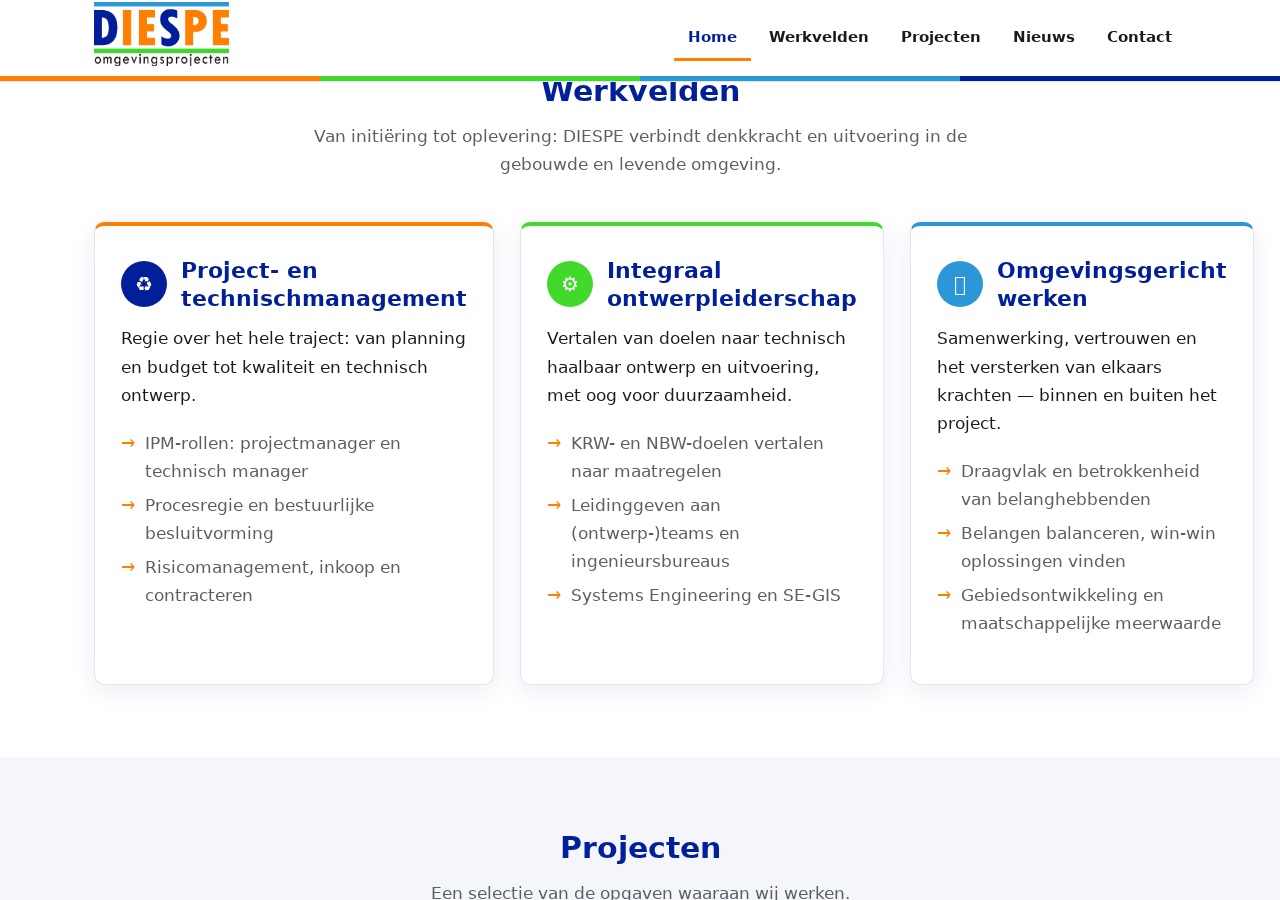
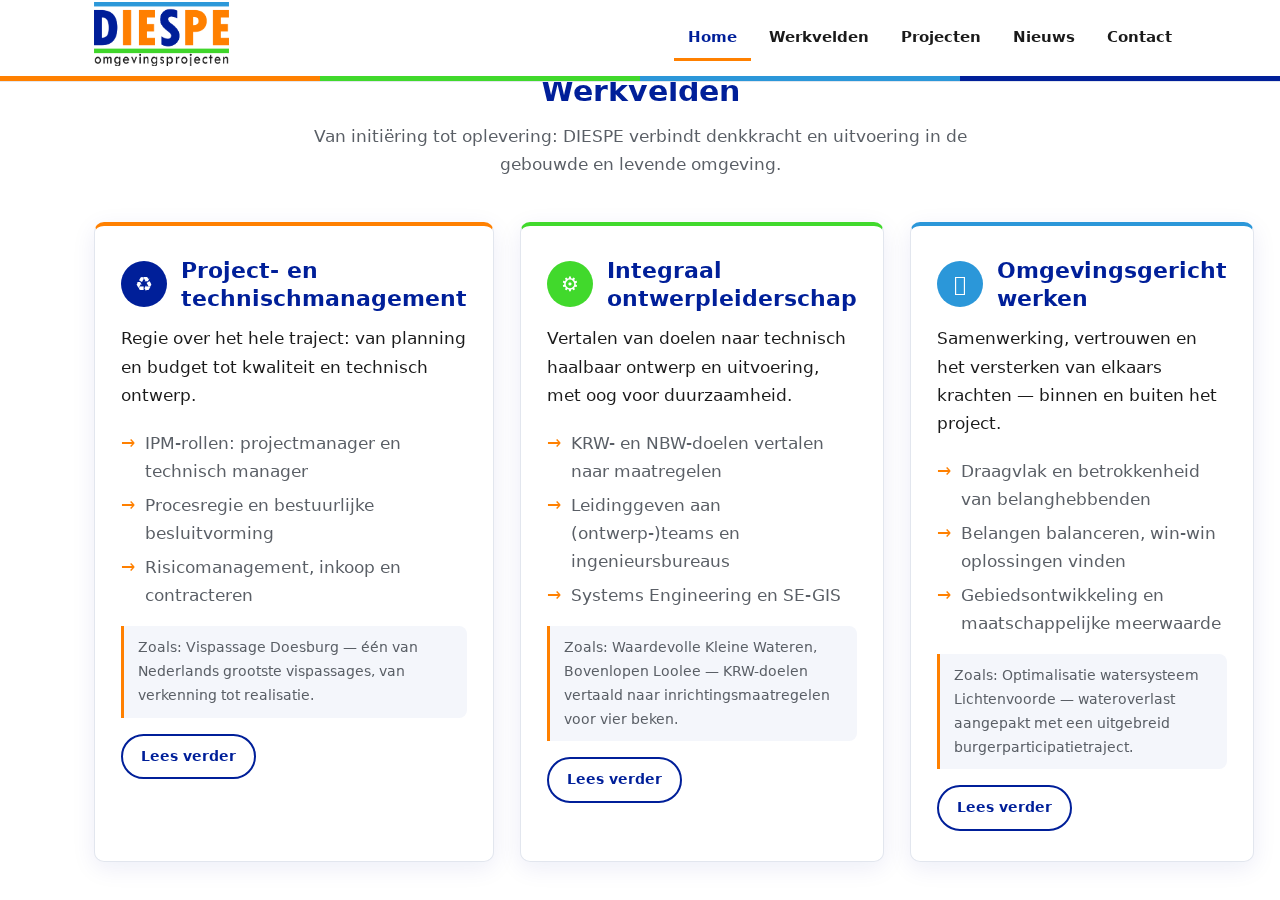
Werkveld-kaarten: praktijkvoorbeeld per kaart en Lees verder-knop

diff --git a/preview/index.html b/preview/index.html
@@ -76,6 +76,8 @@
           <li>Procesregie en bestuurlijke besluitvorming</li>
           <li>Risicomanagement, inkoop en contracteren</li>
         </ul>
+        <p class="card-case">Zoals: Vispassage Doesburg &mdash; &eacute;&eacute;n van Nederlands grootste vispassages, van verkenning tot realisatie.</p>
+        <a class="btn btn--outline card-more" href="#">Lees verder</a>
       </div>
       <div class="card">
         <div class="card-header"><span class="card-icon" aria-hidden="true">&#9881;</span><h3>Integraal ontwerpleiderschap</h3></div>
@@ -85,6 +87,8 @@
           <li>Leidinggeven aan (ontwerp-)teams en ingenieursbureaus</li>
           <li>Systems Engineering en SE-GIS</li>
         </ul>
+        <p class="card-case">Zoals: Waardevolle Kleine Wateren, Bovenlopen Loolee &mdash; KRW-doelen vertaald naar inrichtingsmaatregelen voor vier beken.</p>
+        <a class="btn btn--outline card-more" href="#">Lees verder</a>
       </div>
       <div class="card">
         <div class="card-header"><span class="card-icon" aria-hidden="true">&#127795;</span><h3>Omgevingsgericht werken</h3></div>
@@ -94,6 +98,8 @@
           <li>Belangen balanceren, win-win oplossingen vinden</li>
           <li>Gebiedsontwikkeling en maatschappelijke meerwaarde</li>
         </ul>
+        <p class="card-case">Zoals: Optimalisatie watersysteem Lichtenvoorde &mdash; wateroverlast aangepakt met een uitgebreid burgerparticipatietraject.</p>
+        <a class="btn btn--outline card-more" href="#">Lees verder</a>
       </div>
     </div>
   </div>

diff --git a/preview/style.css b/preview/style.css
@@ -415,6 +415,18 @@ p { margin: 0 0 1.2em; }
 
 .card h3 { margin-bottom: 0.5em; }
 
+.card-case {
+  font-size: 0.9rem;
+  color: var(--diespe-muted);
+  background: var(--diespe-bg-alt);
+  border-left: 3px solid var(--diespe-orange);
+  padding: 10px 14px;
+  border-radius: 0 8px 8px 0;
+  margin-bottom: 16px;
+}
+
+.card .card-more { padding: 9px 18px; font-size: 0.9rem; }
+
 .card ul { list-style: none; padding: 0; margin: 0 0 1em; }
 .card li { padding-left: 24px; position: relative; margin-bottom: 6px; color: var(--diespe-muted); }
 .card li::before {

diff --git a/style.css b/style.css
@@ -415,6 +415,18 @@ p { margin: 0 0 1.2em; }
 
 .card h3 { margin-bottom: 0.5em; }
 
+.card-case {
+  font-size: 0.9rem;
+  color: var(--diespe-muted);
+  background: var(--diespe-bg-alt);
+  border-left: 3px solid var(--diespe-orange);
+  padding: 10px 14px;
+  border-radius: 0 8px 8px 0;
+  margin-bottom: 16px;
+}
+
+.card .card-more { padding: 9px 18px; font-size: 0.9rem; }
+
 .card ul { list-style: none; padding: 0; margin: 0 0 1em; }
 .card li { padding-left: 24px; position: relative; margin-bottom: 6px; color: var(--diespe-muted); }
 .card li::before {

diff --git a/front-page.php b/front-page.php
@@ -57,6 +57,8 @@ get_header();
 					<li><?php esc_html_e( 'Procesregie en bestuurlijke besluitvorming', 'diespe' ); ?></li>
 					<li><?php esc_html_e( 'Risicomanagement, inkoop en contracteren', 'diespe' ); ?></li>
 				</ul>
+				<p class="card-case"><?php esc_html_e( 'Zoals: Vispassage Doesburg — één van Nederlands grootste vispassages, van verkenning tot realisatie.', 'diespe' ); ?></p>
+				<a class="btn btn--outline card-more" href="<?php echo esc_url( home_url( '/werkvelden/' ) ); ?>"><?php esc_html_e( 'Lees verder', 'diespe' ); ?></a>
 			</div>
 			<div class="card">
 				<div class="card-header">
@@ -69,6 +71,8 @@ get_header();
 					<li><?php esc_html_e( 'Leidinggeven aan (ontwerp-)teams en ingenieursbureaus', 'diespe' ); ?></li>
 					<li><?php esc_html_e( 'Systems Engineering en SE-GIS', 'diespe' ); ?></li>
 				</ul>
+				<p class="card-case"><?php esc_html_e( 'Zoals: Waardevolle Kleine Wateren, Bovenlopen Loolee — KRW-doelen vertaald naar inrichtingsmaatregelen voor vier beken.', 'diespe' ); ?></p>
+				<a class="btn btn--outline card-more" href="<?php echo esc_url( home_url( '/werkvelden/' ) ); ?>"><?php esc_html_e( 'Lees verder', 'diespe' ); ?></a>
 			</div>
 			<div class="card">
 				<div class="card-header">
@@ -81,6 +85,8 @@ get_header();
 					<li><?php esc_html_e( 'Belangen balanceren, win-win oplossingen vinden', 'diespe' ); ?></li>
 					<li><?php esc_html_e( 'Gebiedsontwikkeling en maatschappelijke meerwaarde', 'diespe' ); ?></li>
 				</ul>
+				<p class="card-case"><?php esc_html_e( 'Zoals: Optimalisatie watersysteem Lichtenvoorde — wateroverlast aangepakt met een uitgebreid burgerparticipatietraject.', 'diespe' ); ?></p>
+				<a class="btn btn--outline card-more" href="<?php echo esc_url( home_url( '/werkvelden/' ) ); ?>"><?php esc_html_e( 'Lees verder', 'diespe' ); ?></a>
 			</div>
 		</div>
 	</div>
